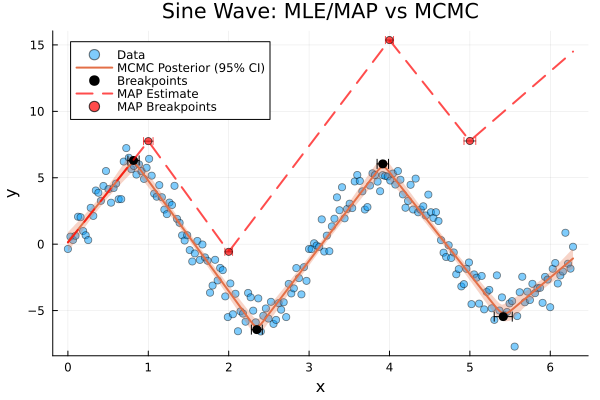
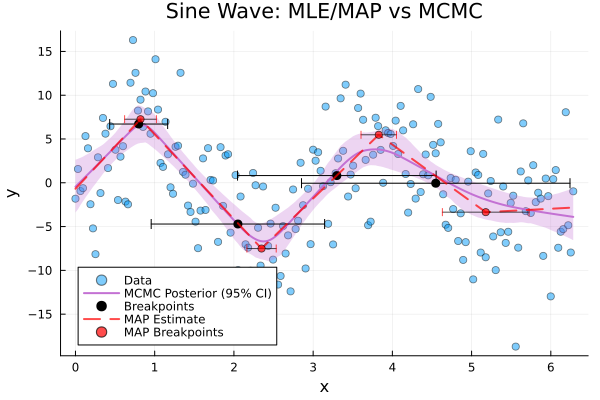
readme and jacobian fix

diff --git a/README.md b/README.md
@@ -1,11 +1,13 @@
 # FastBreak.jl
 
-Fast, bayesian detection of breakpoints in univariate time series data. Envisioned for biologists interested in asking: what is the probability that population A and B reached plateau growth phase at the same time, controlling for growth rate? Statistical inference can also be performed on slopes (growth rates)
+Fast detection of breakpoints in univariate time series data. Envisioned for biologists interested in asking: what is the probability that population A and B reached plateau growth phase at the same time, controlling for growth rate? Statistical inference can also be performed on slopes (growth rates)
 
 ## Use Case
 
 ### Biology 
-Identifying the probable interval of time that population growth curves change behavior (exponential/linear/plateau) can be calculated in fractions of a second. Hypothesis testing on breakpoints can be performed intuitively using the posterior samples, or using the Wald test if you're feeling frequentist. 95% CI are reported for the slopes and breakpoint locations.
+Identifying the probable interval of time that population growth curves change behavior (exponential/linear/plateau) can be calculated in fractions of a second. Hypothesis testing on breakpoints can be performed intuitively using either the full posterior (best) or Wald test.
+
+Simple curves such as these can be fit nearly instantaneously.
 
 <p align="center">
   <img src="https://raw.githubusercontent.com/dan-sprague/FastBreak/main/img/population_growth_mcmc.png" alt="Population Growth 1" width="90%"/>
@@ -13,28 +15,25 @@ Identifying the probable interval of time that population growth curves change b
 
 ### Complicated functions 
 
-This project began as simple MLE optimization using LBFGS, which worked fine on logistic growth curves. However, testing on complex sine behavior revealed catastrophic fit failures even when using autodiff. The solution was to better explore the solution space with Bayesian sampling.
-
-FastBreak utilizes its hardcoded gradient and the `AdvancedHMC.jl` library to perform ultrafast Bayesian inference. FastBreak fits about 3X faster than an equivalent Stan model. 
+FastBreak utilizes its hardcoded gradient and the `AdvancedHMC.jl` library to perform ultrafast Bayesian inference. FastBreak fits about 3X faster than an equivalent Stan model. Importantly, FastBreak performs either point estimate fitting (MAP) or MCMC. 
 
 <p align = "center">
 <img src="https://raw.githubusercontent.com/dan-sprague/FastBreak/main/img/sine_map_vs_mcmc.png" alt="Population Growth 1" width="90%"/>
 </p>
 
+As shown above, the MAP fit looks enticing and in this case is a good fit against ground truth. However, the full Bayesian sampling indicates that the normality assumptions are probably not true. The full posterior estimate provides the most accurate picture of uncertainty for inference.
+
 
 ## Method Overview
 
-FastBreak fits piecewise linear regression models with an arbitrary number of breakpoints using a fast MCMC sampler (< 1s for 2000 samples on hundreds of observations). All parameters are estimated **jointly** rather than in an iterative fashion. The package uses a hardcoded logposterior gradient to provide posterior samples in the blink of an eye. An initial MAP estimate is performed with Newton's method (Hessian derived with the assistance of Claude, because, well, no thanks!). 
+FastBreak fits piecewise linear regression models with an arbitrary number of breakpoints using a fast MCMC sampler (< 1s for 2000 samples on hundreds of observations). All parameters are estimated **jointly** rather than in an iterative fashion. The package uses a hardcoded logposterior gradient to yield either a MAP estimate or full posterior samples via MCMC in a flash.
 
-### Why Bayes?
+FastBreak differs from R's `segmented` library in its joint estimation of parameter values using standard optimization techniques.
 
-Standard optimization (MLE/MAP) performed well on simple growth curves, however that approach fails catastrophically on sine-like and more complex data, likely due to vanishing gradients and kinks in the loss induced by the breakpoints. R's `segmented` library uses an iterative fitting procedure however the hope for this library was for joint optimization of all parameters using gradient decent.
-
-Bayesian sampling appears to better explore the solution space, leading optimal solutions even though the gradient optimization is still there.
 
 ## Features
 
-Full Bayesian posterior for inference on generated and derived statistics!
+Full Bayesian posterior for inference on generated and derived statistics.
 
 - **Multiple breakpoints**: Fit models with any number of breakpoints
 - **Fast optimization**: Analytical gradients and Hessians for Newton's method
